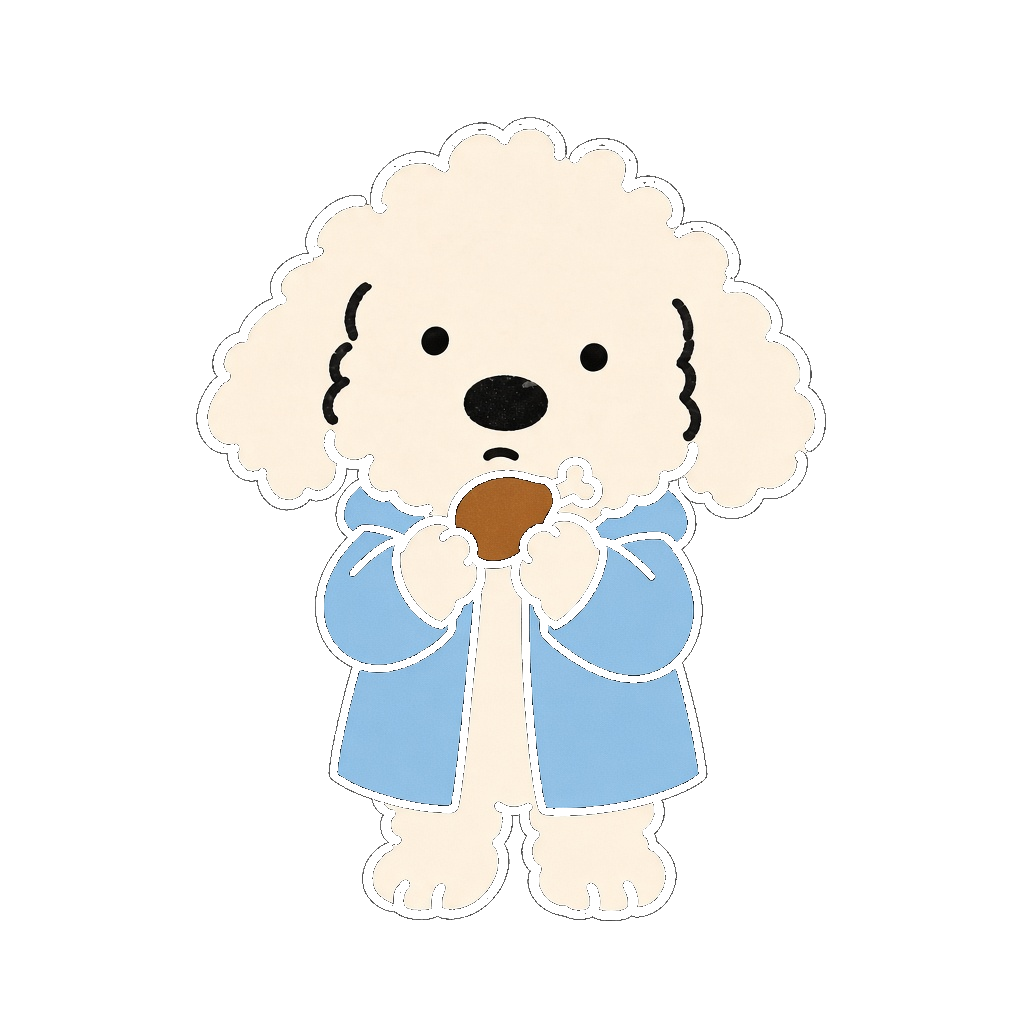
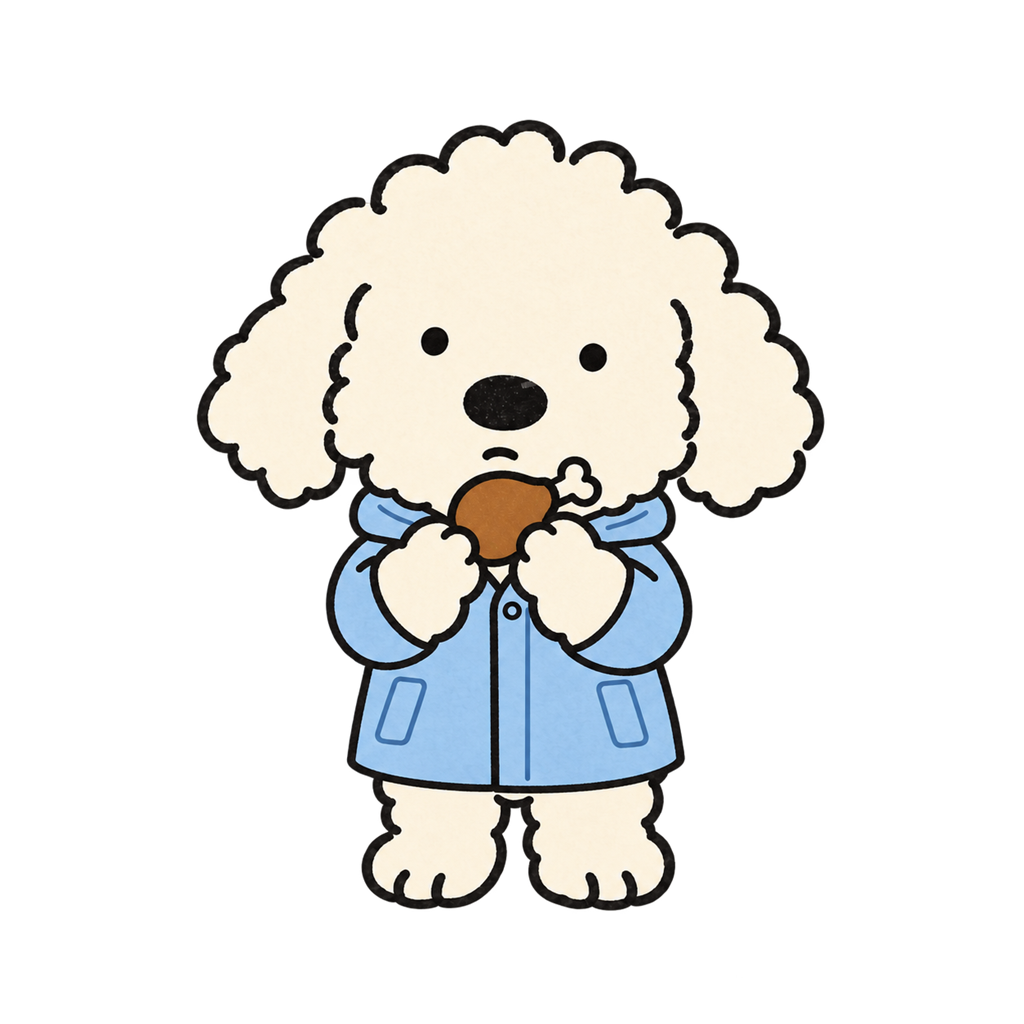
캐릭터 상태 이미지와 의상 디자인 정리

diff --git a/web/public/assets/characters/guide.md b/web/public/assets/characters/guide.md
@@ -1,0 +1,170 @@
+# 눈찌 캐릭터 · 옷(코스튬) 에셋 가이드
+
+새 옷을 만들 때는 **기본 캐릭터(맨몸)가 가진 상태 PNG를 전부** 같은 옷 버전으로 만들어야 합니다.  
+idle 한 장만 만들면 착용 시 통통·영수증·먹기 연출이 깨지거나 맨몸 모션만 보이게 됩니다.
+
+> 이 문서는 `web/public/assets/characters/` 기준입니다.  
+> 앱 코드 매핑은 `web/src/App.tsx`의 `dogOutfits` / `resolveDogVisualState` / `displayDogImage`를 참고하세요.
+
+---
+
+## 0. 최우선 규칙 — 원본 그림체·테두리·캐릭터 고정
+
+옷을 입히거나 상태를 바꿀 때 **원본 눈찌 그 자체를 유지**합니다. 옷·소품만 바뀌고, 캐릭터 정체성은 절대 다시 그리지 않습니다.
+
+### 0-1. 원본 테두리 보존 (Outline-preserving)
+
+1. **해당 상태의 맨몸 PNG 외곽선을 그대로 보존**할 것. 선을 덧그리거나 더 굵게 만들지 않습니다.
+2. 외곽선은 원본과 같은 짙은 먹색이며, 추가 검정 테두리·스티커 테두리·화이트 헤일로를 모두 금지합니다.
+3. 선의 굵기·농도·종이 질감은 레퍼런스와 픽셀 단위로 비슷해야 합니다. `thick`, `bold outline`, `heavy stroke` 같은 지시는 사용하지 않습니다.
+4. 머리·귀·몸·발 윤곽은 항상 **구름형 스캘럽(울퉁불퉁한 둥근 털 실루엣)**.
+5. 흰 외곽이나 이중 테두리가 생기면 후처리로 검게 덮지 말고 재생성합니다. 자동 테두리 보정은 원본 선을 두껍게 만들 수 있어 금지합니다.
+
+### 0-2. 캐릭터 원본 고정 (절대 바꾸지 말 것)
+
+| 항목 | 고정 값 |
+|------|---------|
+| 얼굴 | 작은 검정 점 눈 2개 + 가로로 큰 타원 코 + 코 아래 아주 작은 입선 |
+| 눈·코 상대 위치·비율 | 맨몸 레퍼런스와 동일 |
+| 머리:몸 비율 | 치비(머리 ≈ 몸) |
+| 팔·다리 | 짧고 뭉툭한 stub |
+| 털 색 | 따뜻한 오프화이트/크림 (순백·그라데이션 금지) |
+| 채색 | 플랫 + 미세 종이 그레인. 강한 그림자·하이라이트·그라데이션 금지 |
+
+### 0-3. 작업 방법 (필수)
+
+1. **해당 상태의 맨몸 PNG**를 1번 레퍼런스로 고정 (포즈·비율·테두리).
+2. **같은 옷의 neutral(또는 `outfits/{id}.png`)** 을 2번 레퍼런스로 고정 (옷 디자인만).
+3. 결과물은 “맨몸 상태 포즈 + 그 옷”이어야 함. **새 캐릭터·다른 견종·다른 얼굴로 재생성 금지.**
+4. 배경은 맨몸 세트와 동일한 **완전 투명 RGBA**로 통일합니다. 검정·흰색·체커보드 배경을 실제 픽셀로 넣지 않습니다.
+5. 출력 캔버스 크기와 종횡비는 해당 맨몸 상태 PNG와 일치시킵니다. 임의로 `1024×1024` 정사각형으로 자르거나 늘리지 않습니다.
+
+### 0-4. 이미지 생성 프롬프트 템플릿
+
+```text
+Keep the EXACT same character from reference 1 (pose, proportions, face, scalloped fur silhouette,
+original thin-to-medium hand-drawn outline, cream fur, paper grain). Do NOT redraw the dog.
+Only add the clothing from reference 2 onto that exact body.
+CRITICAL: preserve the original outline thickness exactly. Do not trace or add another outer stroke.
+NO heavy outline, NO doubled outline, NO white sticker border, NO halo, NO outer rim.
+Genuine transparent RGBA background; no black, white, or checkerboard background pixels.
+Cream/clothes fills stay inside the existing outline.
+Flat colors, no gradients, no text, no watermark.
+Frontal hand-drawn game sprite, exact same canvas dimensions, aspect ratio and framing as reference 1.
+```
+
+생성 후에는 모서리 픽셀의 알파값이 `0`인지 확인하고, 원본과 나란히 놓아 외곽선 굵기·눈·코 위치를 육안 검수합니다.
+
+---
+
+## 1. 기본 캐릭터(맨몸) 필수 상태 세트
+
+경로: `characters/states/`
+
+| 상태 키 | 파일 | 언제 쓰이나 |
+|--------|------|------------|
+| `neutral` | `dog-neutral.png` | 기본 대기 (식비 낮음 + 예산 여유) |
+| `chubby` | `dog-chubby.png` | 식비 비율 중간 (`foodLevel === 1`) |
+| `very-chubby` | `dog-very-chubby.png` | 식비 비율 높음 (`foodLevel === 2`) |
+| `receipt` | `dog-receipt.png` | 예산 단계 `worried` / `speechless` |
+| `eating` | `dog-eating.png` | 모션 `eat` (간식·식비 연출) |
+
+**옷을 추가할 때마다 위 5장을 §0 규칙을 지키며 같은 포즈·구도로 복제해 옷만 입혀 만듭니다.**  
+한 장이라도 빠지면 그 옷은 미완성입니다.
+
+---
+
+## 2. CSS 모션 (PNG 추가 불필요)
+
+아래는 **같은 PNG 위에 CSS transform**만 돌립니다. 옷별 추가 이미지는 만들지 않습니다.
+
+| 모션 | 클래스 | 용도 |
+|------|--------|------|
+| `eat` | `.motion-eat` | 먹기 — **단, PNG는 `eating` 상태로 교체** |
+| `hop` | `.motion-hop` | 점프 반응 |
+| `nod` | `.motion-nod` | 고개 끄덕임 |
+| walk bob | `.is-moving` | 방 안 배회 |
+
+즉 PNG로 준비할 “모션/상태”는 **§1의 5장**이고, hop/nod/walk는 CSS 공용입니다.
+
+---
+
+## 3. 옷별 파일 규칙
+
+### 폴더 구조
+
+```text
+characters/
+├─ guide.md                 # 이 문서
+├─ outfits/
+│  └─ {outfitId}.png        # 상점 썸네일 (= dog-neutral-{id}와 동일 컷 권장)
+└─ states/
+   ├─ dog-{state}.png              # 맨몸
+   └─ dog-{state}-{outfitId}.png   # 옷 버전 (state 5종 전부)
+```
+
+`{outfitId}`는 코드의 `OutfitId`와 동일: `scarf` | `sweater` | `raincoat` | …
+
+### 체크리스트 (옷 1벌 = 상태 5장 + 상점 1장)
+
+새 옷 `hoodie` 예시:
+
+- [ ] `outfits/hoodie.png` — 상점·미리보기
+- [ ] `states/dog-neutral-hoodie.png`
+- [ ] `states/dog-chubby-hoodie.png`
+- [ ] `states/dog-very-chubby-hoodie.png`
+- [ ] `states/dog-receipt-hoodie.png`
+- [ ] `states/dog-eating-hoodie.png`
+- [ ] §0 테두리·얼굴·실루엣이 맨몸 레퍼런스와 동일한지 육안 확인
+- [ ] `App.tsx`의 `dogOutfits` / 상태 맵에 경로 등록
+
+`outfits/{id}.png`는 `dog-neutral-{id}.png`를 복사해도 됩니다. **상태 5장은 생략 불가.**
+
+---
+
+## 4. 현재 보유 현황
+
+### 맨몸 — 완료
+
+| 상태 | 파일 |
+|------|------|
+| neutral ~ eating | `states/dog-*.png` (접미사 없음) ✅ |
+
+### 옷 — 완료 (2026-09-18 보정)
+
+| outfitId | neutral | chubby | very-chubby | receipt | eating | 상점 `outfits/` |
+|----------|---------|--------|-------------|---------|--------|-----------------|
+| `scarf` | ✅ | ✅ | ✅ | ✅ | ✅ | ✅ |
+| `sweater` | ✅ | ✅ | ✅ | ✅ | ✅ | ✅ |
+| `raincoat` | ✅ | ✅ | ✅ | ✅ | ✅ | ✅ |
+
+파일명 예: `states/dog-chubby-scarf.png`, `states/dog-receipt-raincoat.png`
+
+---
+
+## 5. 코드 연결
+
+착용 중에도 식비·예산 단계에 따라 **같은 옷의 해당 상태 PNG**를 고릅니다.
+
+```ts
+type DogVisualState = 'neutral' | 'chubby' | 'very-chubby' | 'receipt' | 'eating'
+
+// 맨몸: /assets/characters/states/dog-{state}.png
+// 옷:   /assets/characters/states/dog-{state}-{outfitId}.png
+```
+
+스모크 테스트:
+
+1. 옷 착용 → neutral 표시
+2. 식비 올려 chubby / very-chubby
+3. 예산 압박 → receipt
+4. 간식/식비 연출 → eating
+5. hop/nod는 이미지 교체 없이 CSS만
+
+---
+
+## 6. 한 줄 요약
+
+**옷 1벌 = 맨몸과 동일한 5상태 PNG 전부.**  
+만들 때는 **원본 눈찌의 테두리와 얼굴을 그대로 보존**하고 옷만 입힌다.  
+hop/nod/walk는 CSS 공용. idle만 만들고 끝내지 말 것.
